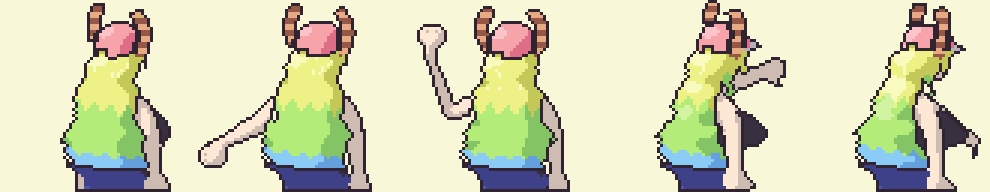
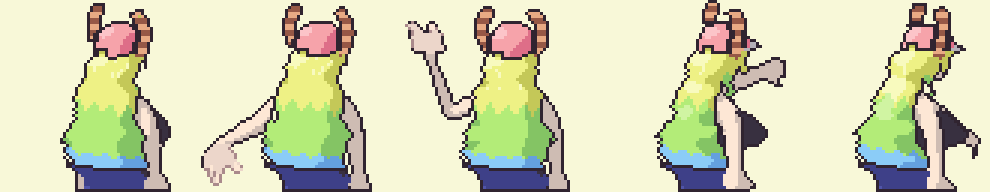
Lucoa back picture: Red's hands on frames 2-3, fitted to her wrist
Claude-Session: https://claude.ai/code/session_01PFRhGfDJhE1fCmd6x4xB4j

Changed region(s): [[0.1818, 0.7188, 0.2424, 0.9688], [0.3939, 0.0938, 0.4545, 0.2812]]

diff --git a/tools/rh/lucoa/v6/red_hands.py b/tools/rh/lucoa/v6/red_hands.py
@@ -1,0 +1,53 @@
+# Red's FR/LG throwing hands (frames 2 and 3), cut at the wristband and recoloured to Lucoa's skin,
+# placed on Lucoa's wrist. Red's colours: light, mid, inner line, outline, wristband.
+from PIL import Image
+import backpal
+RED = '/home/user/Pokemon-FireRed-Randomizer-with-every-Pokemon-Early-Access-/graphics/trainers/back_pics/red.png'
+SK = backpal.PAL['skin']
+MID = (236, 214, 202)                 # between normal.png's two skin tones (Red's hands have three)
+LINE = (170, 138, 140)                # Red's brown finger lines, in Lucoa's skin
+MAP = {(255, 197, 148): SK[0], (222, 148, 115): MID, (123, 65, 65): LINE, (106, 41, 41): LINE, (0, 0, 0): backpal.O}
+BAND = (57, 57, 123)
+# (Red frame, crop box in that frame, wrist pixel in the crop, transform)
+SRC = {1: (1, (0, 41, 14, 55), (6, 13)), 2: (2, (0, 27, 14, 38), (8, 10))}
+def hand(i, tf):
+    im = Image.open(RED).convert('RGBA')
+    f, (x0, y0, x1, y1), wrist = SRC[i]
+    c = im.crop((x0, 64 * f + y0, x1, 64 * f + y1))
+    W, H = c.size
+    g = {}
+    for y in range(H):
+        for x in range(W):
+            p = c.getpixel((x, y))
+            if not p[3]: continue
+            rgb = p[:3]
+            if rgb == BAND: rgb = (222, 148, 115)      # bare wrist where Red has his wristband
+            if rgb not in MAP: continue
+            g[(x, y)] = MAP[rgb]
+    def T(x, y):
+        if tf == 'none': return x, y
+        if tf == 'flipv': return x, H - 1 - y
+        if tf == 'rot_ccw': return y, W - 1 - x
+        if tf == 'rot_cw': return H - 1 - y, x
+        if tf == 'flipv_flipd': return y, x
+    out = {T(x, y): v for (x, y), v in g.items()}
+    return out, T(*wrist)
+def apply(img, i, at, tf, erase):
+    x0, y0, x1, y1 = erase
+    for y in range(y0, y1):
+        for x in range(x0, x1):
+            if img[y][x] is not None and img[y][x] in (backpal.O,) + tuple(SK): img[y][x] = None
+    g, (wx, wy) = hand(i, tf)
+    for (x, y), v in g.items():
+        X, Y = at[0] + x - wx, at[1] + y - wy
+        if 0 <= X < 64 and 0 <= Y < 64: img[Y][X] = v
+
+# pixel fixes where Red's hand meets Lucoa's arm: {frame: {(x, y): letter}}
+FIX = {
+    1: {(6, 46): 'O', (7, 46): 'L', (5, 47): 'O', (6, 47): 'L', (7, 47): 'L'},
+    2: {(6, 17): 'O', (7, 17): 'O', (8, 17): 'O', (9, 17): 'O', (10, 17): 'm', (11, 17): 'm', (12, 17): 'm',
+        (13, 17): 'O', (14, 17): 'O', (15, 17): 'O', (16, 17): '.'},
+}
+def fix(img, i):
+    C = {'O': backpal.O, 'L': SK[0], 'M': SK[2], 'm': MID, 'n': LINE, '.': None}
+    for (x, y), c in FIX.get(i, {}).items(): img[y][x] = C[c]

diff --git a/tools/rh/lucoa/v6/convert.py b/tools/rh/lucoa/v6/convert.py
@@ -136,6 +136,10 @@ if __name__ == '__main__':
         K, C, T = frame(Image.open(f'm3d/out/flat_{i}.png').convert('RGBA'), Image.open(f'm3d/out/lit_{i}.png').convert('RGBA'))
         out = finish(K, C, T)
         if i in (1, 2) and FIST_MODE == 'auto': fist.place(out, K, hands[str(i)]['wrist'], hands[str(i)]['knuckle'])
+        if FIST_MODE == 'red':
+            import red_hands
+            cfg = json.loads(os.environ.get('REDCFG', '{}'))
+            if str(i) in cfg: red_hands.apply(out, i, *cfg[str(i)]); red_hands.fix(out, i)
         if FIST_MODE == 'manual':
             import hands_manual; hands_manual.apply(out, i)
         frames.append(to_img(out))

diff --git a/tools/rh/lucoa/v6/README.md b/tools/rh/lucoa/v6/README.md
@@ -4,13 +4,14 @@ Made with Blender (`pip install bpy`) from the owner's rigged Lucoa model, which
 Put it at `model/01- Quetzalcoatl Lucoa/` and run from the folder above `m3d/`, with these scripts in `m3d/`:
 
     for m in flat lit; do YAW=215 SHX=-0.12 SUNZ=160 TW=15,22,-28,-30 CURL=55 python3 m3d/pose.py $m; done
-    FIST=manual python3 m3d/convert.py
+    FIST=red REDCFG='{"1": [[7,48], "flipv", [0,46,8,58]], "2": [[11,17], "none", [3,5,17,17]]}' python3 m3d/convert.py
 
 - `pose.py` poses the Mixamo skeleton in Red's five throw poses (left arm throws), enlarges the horns,
   thickens the arms a little and renders a flat-colour pass and a lit pass from behind (512px).
 - `convert.py` turns each render into 64x64: material by majority vote, tone from the lit pass, then
   outlines, horn rings, wavy hair colour bands and the cap's snapback opening.
 - `backpal.py` is the palette, based on the owner's normal.png.
-- `hands_manual.py` holds the hand-drawn fists for frames 2 and 3 (pasted over the rendered hands).
+- `red_hands.py` puts Red's FR/LG hands (cut at his wristband, recoloured to Lucoa's skin) on frames 2 and 3,
+  with a few joining pixels at the wrist. (`hands_manual.py`/`fist.py` = earlier attempts, unused.)
 
 `back_sheet.png` = the 5 frames stacked (64x320). Not in the game yet.
